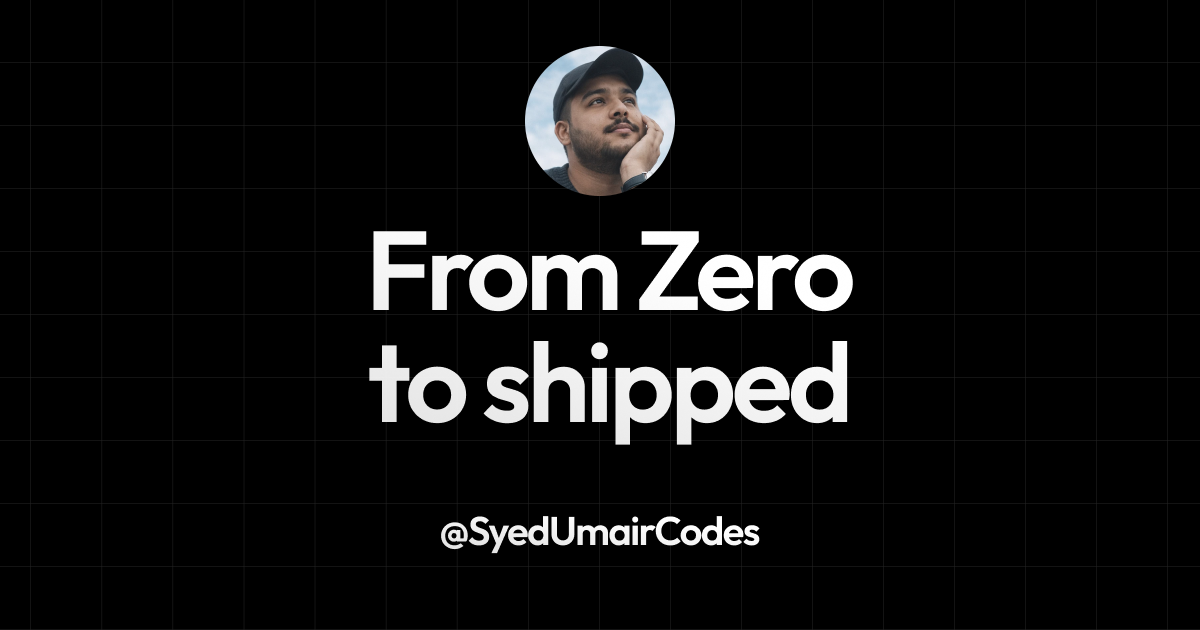
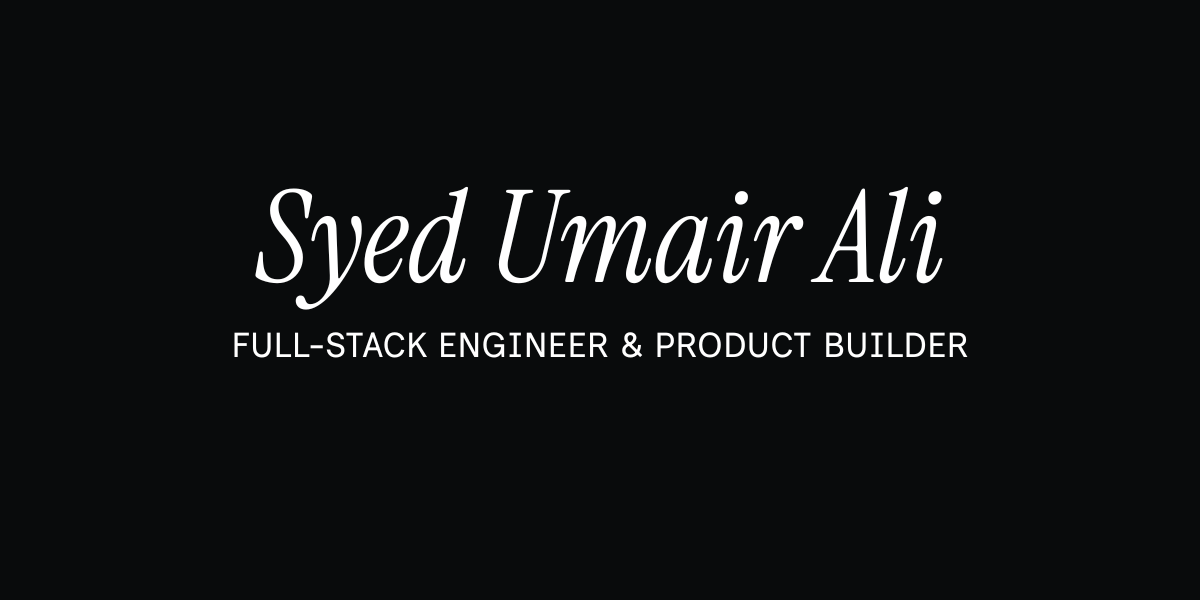
updated og-image

Changed region(s): [[0.2158, 0.06, 0.8017, 0.51], [0.185, 0.54, 0.8017, 0.72], [0.37, 0.81, 0.6475, 0.87]]

diff --git a/src/pages/BlogPost.tsx b/src/pages/BlogPost.tsx
@@ -1,10 +1,8 @@
-// src/pages/BlogPost.tsx
 import { useParams, Link } from "react-router-dom"
 import { motion } from "motion/react"
 import { ArrowLeft } from "lucide-react"
 import Footer from "@/components/shared/Footer"
 
-// Fetch all MDX files again
 const mdxFiles = import.meta.glob("../content/*.mdx", { eager: true })
 
 const BlogPost = () => {
@@ -30,7 +28,7 @@ const BlogPost = () => {
           to="/blogs"
           className="mb-10 inline-flex items-center text-[11px] font-bold tracking-[0.2em] text-muted-foreground uppercase transition-colors hover:text-foreground"
         >
-          <ArrowLeft size={14} className="mr-2" /> Back to Notes
+          <ArrowLeft size={14} className="mr-2" /> Back to Blogs
         </Link>
 
         <motion.header
@@ -51,7 +49,6 @@ const BlogPost = () => {
           initial={{ opacity: 0, y: 10 }}
           animate={{ opacity: 1, y: 0 }}
           transition={{ delay: 0.1 }}
-          // This 'prose' class from Tailwind automatically styles your markdown!
           className="prose max-w-none prose-zinc dark:prose-invert prose-headings:font-heading prose-headings:font-normal prose-headings:tracking-tight prose-p:font-sans prose-p:leading-relaxed prose-p:font-light"
         >
           <PostContent />
